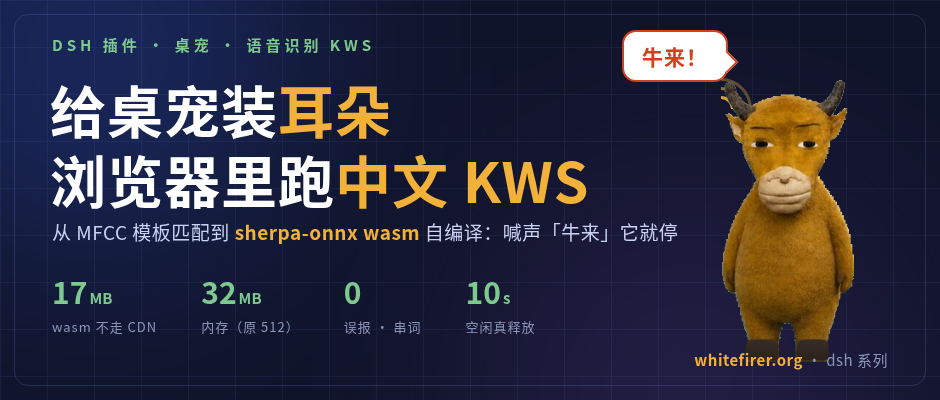
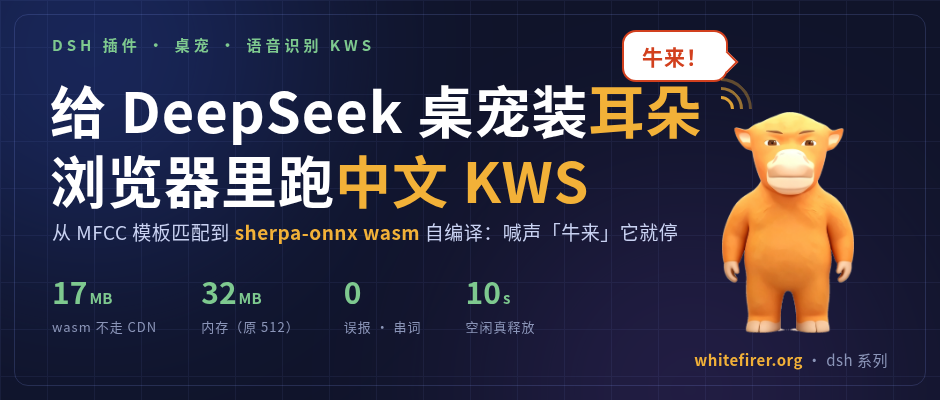
content: KWS 文定稿换封面（原皮），桌宠文补 B 站链接

Changed region(s): [[0.0926, 0.21, 0.7404, 0.36], [0.7404, 0.21, 0.9255, 0.9]]

diff --git a/content/posts/dsh-niulai-pet/index.md b/content/posts/dsh-niulai-pet/index.md
@@ -3,7 +3,7 @@ title: "任务一完成，它就蹦出来喊「妈」——给 DeepSeek Harness 
 subtitle: "一个纯客户端插件的诞生：抠图修蹄子、喊声基频鉴假、嘴型时间线、WAAPI 动画三连坑，外加三只手绘小动物"
 description: "给 dsh web 的角落养了一头《牛来》桌宠：平时呼吸眨眼打盹吐槽，agent 任务一完成就蹦出来喊「妈～～妈～～」。全程记录：6 个皮肤（含 DeepSeek 蓝虎鲸）、签名动作系统、WebAudio 合成叫声、ffmpeg 七档降噪，以及动画/素材/录屏路上踩的所有坑。"
 date: 2026-08-19 02:30:00+08:00
-lastmod: 2026-08-20 03:04:41+08:00
+lastmod: 2026-08-22 22:50:00+08:00
 slug: "dsh-niulai-pet"
 featuredImagePreview: "cover.png"
 author: "whitefirer"
@@ -146,3 +146,5 @@ dsh plugin --profile web add github:whitefirer/dsh-niulai-pet   # 或从 GitHub
 至此我的 dsh 插件小系列凑齐了三种定位：通用能力、开发能力、娱乐休闲。说实话，最后一个是我打开 dsh 时嘴角上扬幅度最大的一个。
 
 下一步：自定义皮肤（导入自己的图和声音）、按住它说话的语音控制（识别完直接发给当前会话，STT 选型调研已经躺在仓库 `docs/roadmap.md` 里）、插件市场收录（awesome 门槛是仓库满一天 + 提交数 ≥10，CI 自动校验，PR 已在路上）。仓库在 [github.com/whitefirer/dsh-niulai-pet](https://github.com/whitefirer/dsh-niulai-pet)，素材全入库，装上即玩。
+
+想看带配音的剪辑完整版，B 站在这：[任务一完成它就蹦出来喊「妈」——我给 DeepSeek Harness 养了头牛来](https://www.bilibili.com/video/BV1iN8p6AEV5)。
